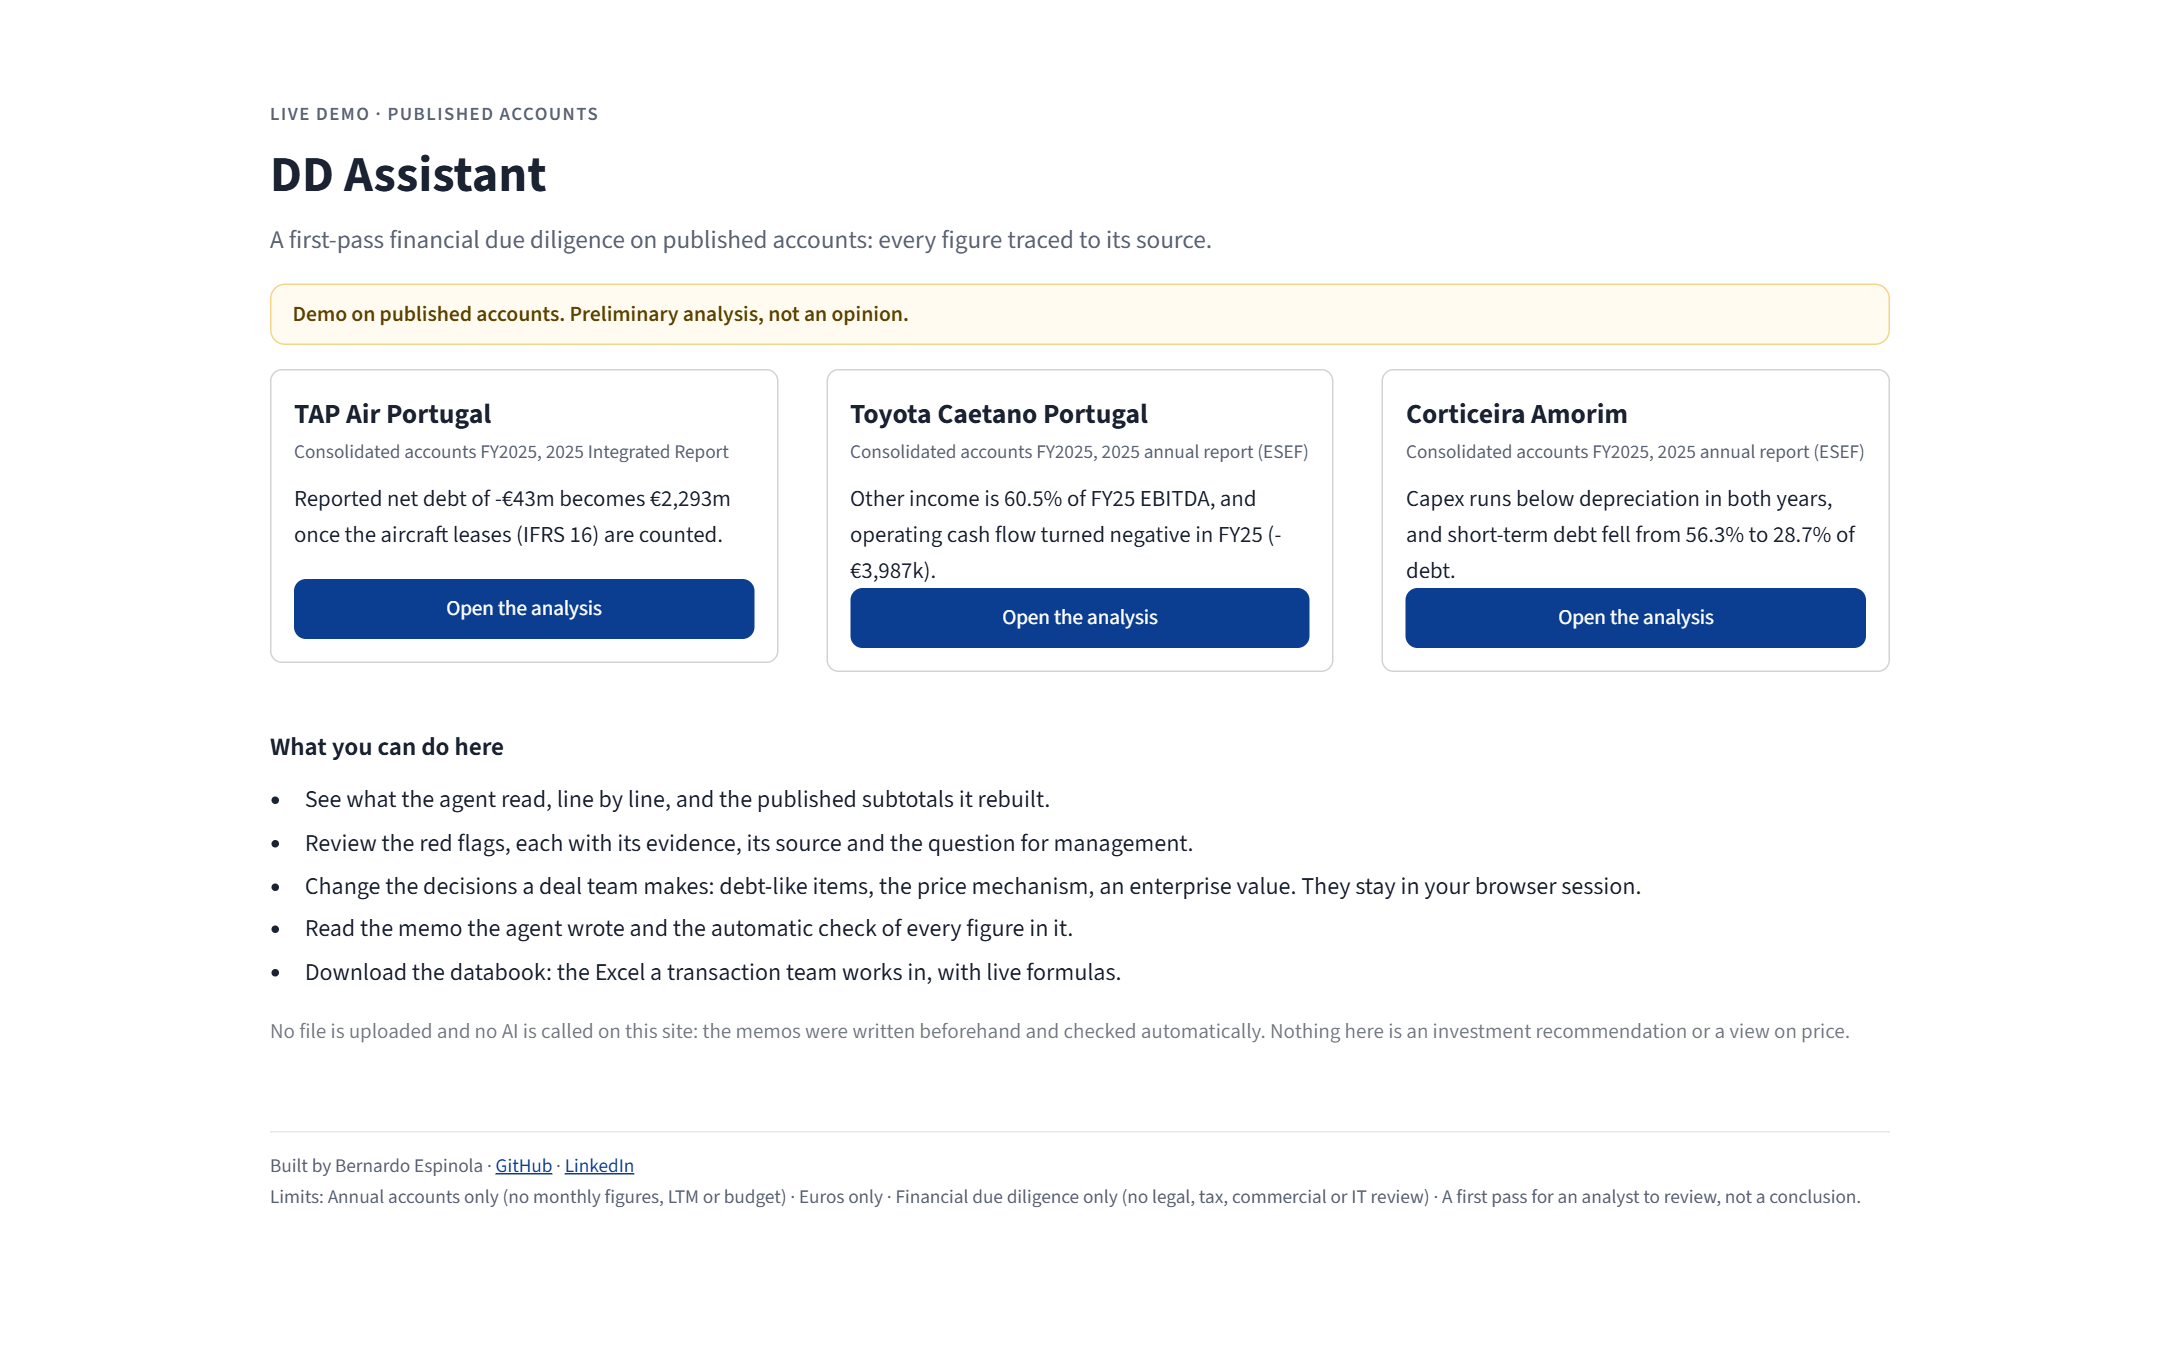
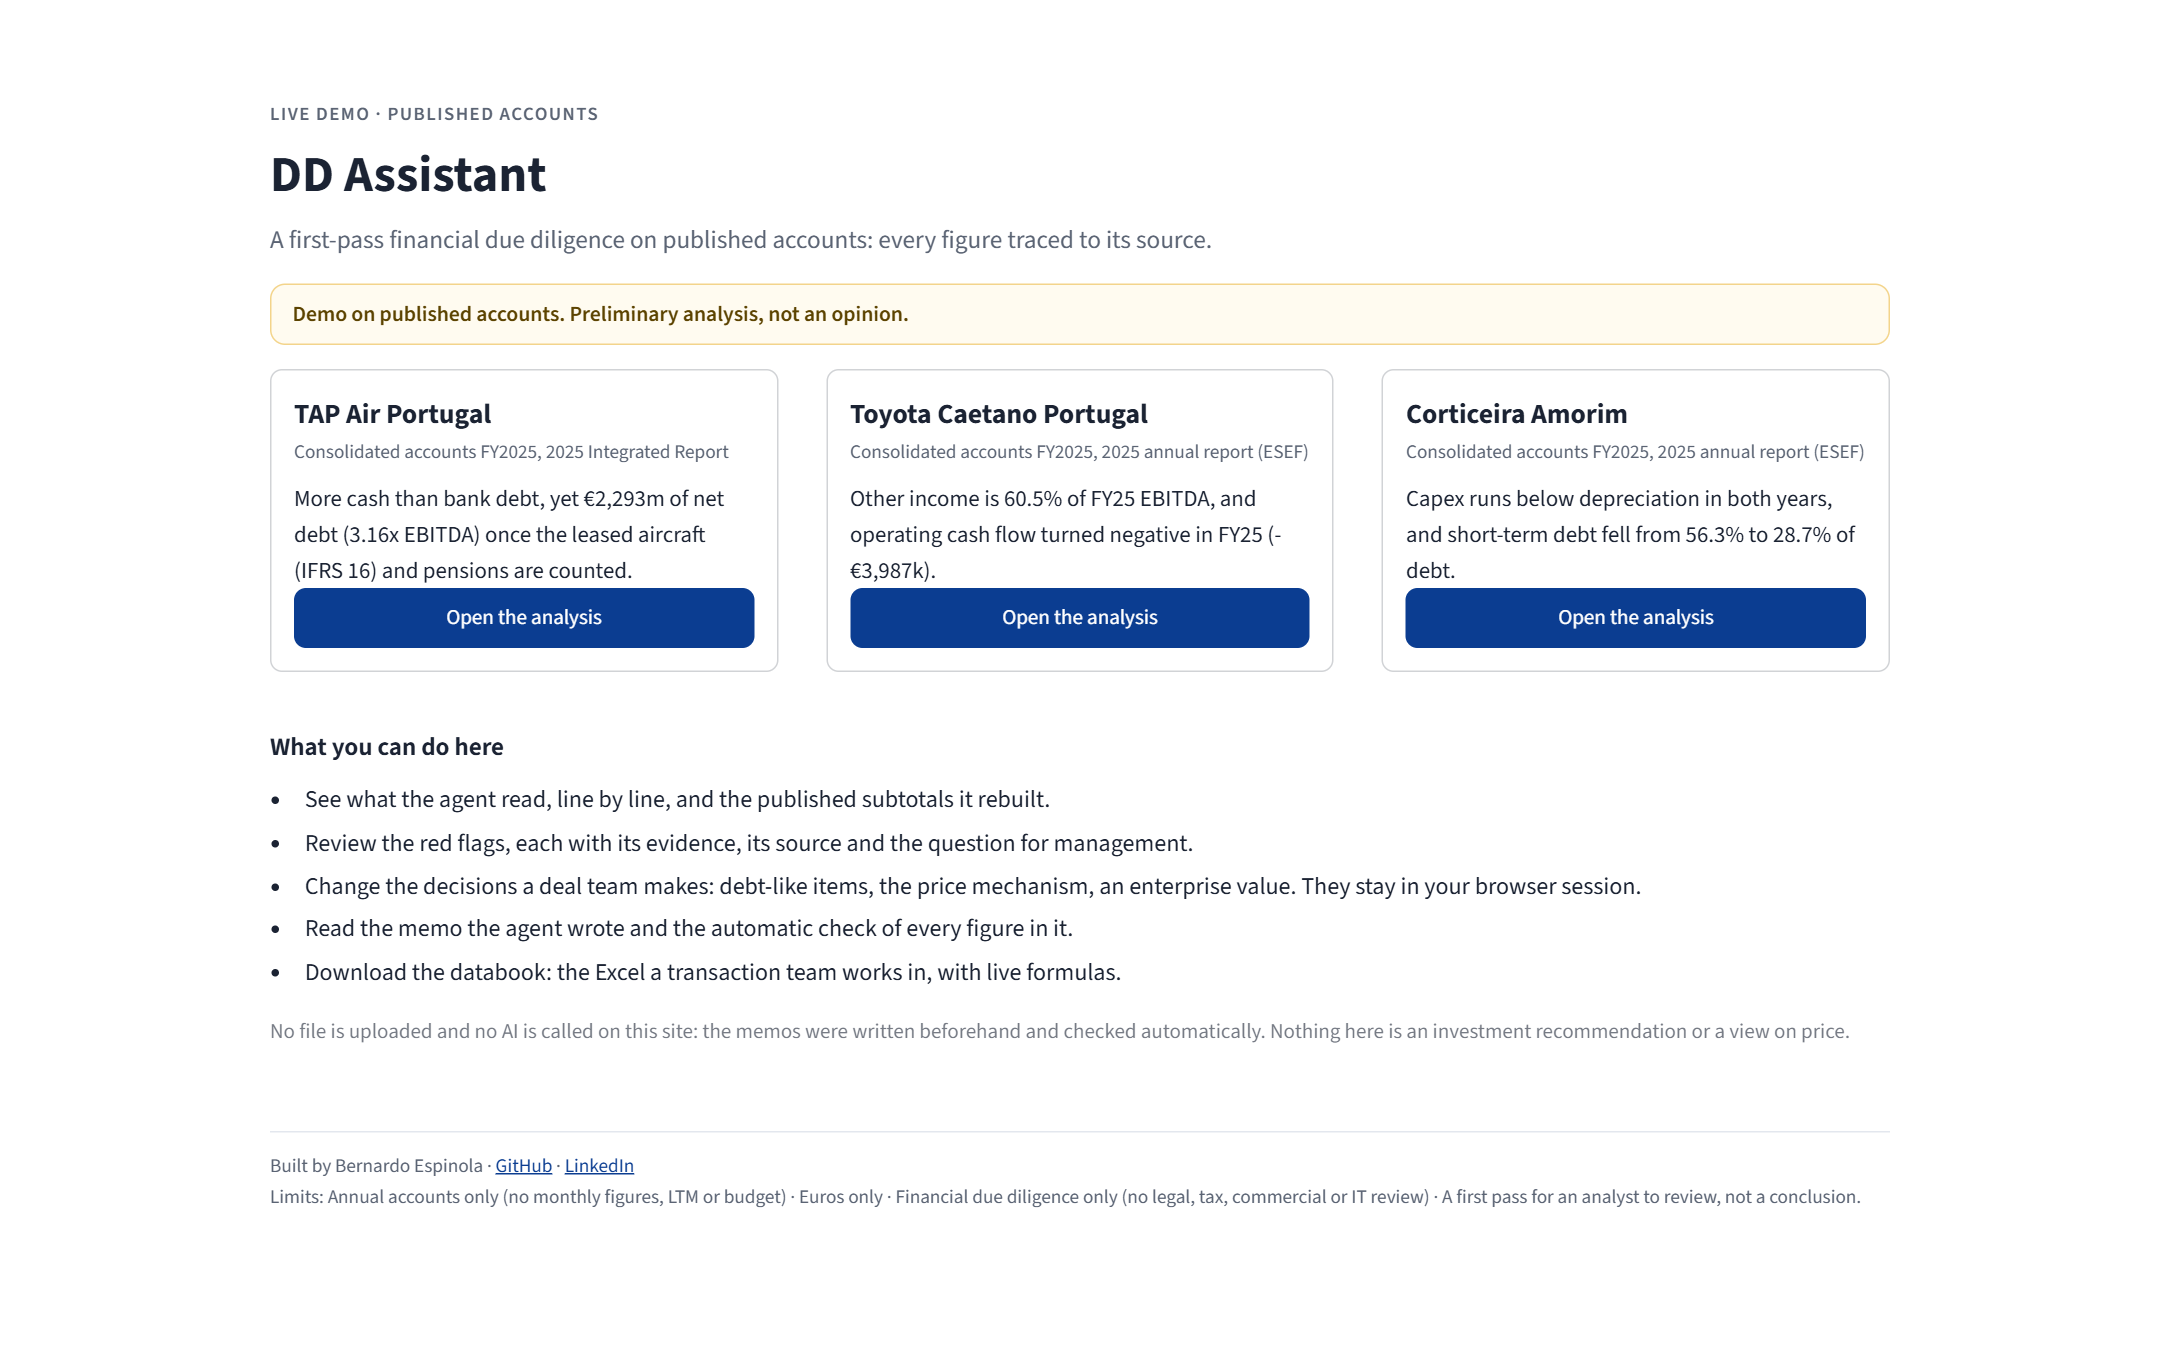
Net debt card: the ratio sits by adjusted net debt; borrowings less cash no longer called 'reported'
'Reported net debt' suggested a figure the company publishes; it is borrowings less cash, so it is now 'Net
financial debt (borrowings less cash)' in the deal view, the databook, the command line, the memos and the README.
The card reads '3.16x EBITDA · of which borrowings less cash -€43m', and the EBITDA card 'Before adjustments'.
TAP's headline: more cash than bank debt, yet €2,293m of net debt once leased aircraft and pensions count.
Memos re-checked (89, 78, 85 figures, none without a source); databooks regenerated and recalculated by Excel.

Changed region(s): [[0.1241, 0.3422, 0.3722, 0.4978]]

diff --git a/app.py b/app.py
@@ -437,13 +437,13 @@ with tab_ov:
     kpis = [
         ("Revenue", money.fmt(g("vendas")), f"{fmt_metric('g_vendas', g('g_vendas'))} growth vs {fy(data.pl_years[-2])}"),
         ("Diligence-adjusted EBITDA", money.fmt(view.ebitda_dd[L]),
-         f"Reported {money.fmt(view.ebitda[L])}" + (f" · mgmt {money.fmt(view.ebitda_mgmt[L])}" if view.ebitda_mgmt
-                                                    else "")),
+         f"Before adjustments {money.fmt(view.ebitda[L])}" + (f" · mgmt {money.fmt(view.ebitda_mgmt[L])}"
+                                                              if view.ebitda_mgmt else "")),
         ("Cash conversion", fmt_metric("conv", g("conv")), "Operating cash / reported EBITDA"),
         ("Adjusted net debt", money.fmt(view.net_debt_adjusted[B]),
-         f"Reported {money.fmt(view.net_debt_reported[B])}"
-         + (f" · {view.net_debt_adjusted[B] / view.ebitda_dd[L]:.2f}x EBITDA"
-            if view.ebitda_dd[L] > 0 and view.net_debt_adjusted[B] is not None else "")),
+         (f"{view.net_debt_adjusted[B] / view.ebitda_dd[L]:.2f}x EBITDA · "
+          if view.ebitda_dd[L] > 0 and view.net_debt_adjusted[B] is not None else "")
+         + f"of which borrowings less cash {money.fmt(view.net_debt_reported[B])}"),
         ("Net working capital", money.fmt(view.nwc_values[B]),
          f"{fmt_unit('pct', nwc_pct)} of revenue" + (f" · average {money.fmt(view.nwc_average)}"
                                                     if len(view.bs_years) > 1 else "")),

diff --git a/dd_assistant/demo.py b/dd_assistant/demo.py
@@ -72,7 +72,7 @@ class Case:
 
 CASES = (
     Case("tap", "TAP Air Portugal", "TAP_2025_published.xlsx", "PT", "transport",
-         "Reported net debt of -€43m becomes €2,293m once the aircraft leases (IFRS 16) are counted.",
+         "More cash than bank debt, yet €2,293m of net debt (3.16x EBITDA) once the leased aircraft (IFRS 16) and pensions are counted.",
          "Consolidated accounts FY2025, 2025 Integrated Report",
          context="The privatisation is under way: Air France-KLM and Lufthansa submitted binding offers, and the "
                  "Government extended the deadline to complete it to the end of 2026.",
@@ -80,7 +80,7 @@ CASES = (
                          "https://www.jn.pt/economia/artigo/governo-prorroga-ate-final-do-ano-prazo-para-concluir-"
                          "privatizacao-da-tap/18123884")),
     Case("toyota-caetano", "Toyota Caetano Portugal", "Toyota_Caetano_2025_published.xlsx", "PT", "automotive",
-         "Other income is 60.5% of FY25 EBITDA, and operating cash flow turned negative in FY25 (-€3,987k).",
+         "Other income is 60.5% of FY25 EBITDA, and operating cash flow turned negative in FY25 (−€3,987k).",
          "Consolidated accounts FY2025, 2025 annual report (ESEF)"),
     Case("corticeira-amorim", "Corticeira Amorim", "Corticeira_Amorim_2025_published.xlsx", "PT", "materials",
          "Capex runs below depreciation in both years, and short-term debt fell from 56.3% to 28.7% of debt.",

diff --git a/dd_assistant/deal.py b/dd_assistant/deal.py
@@ -129,7 +129,7 @@ def deal_view(d: CompanyData, m: Metrics, decisions: dict[str, str] | None = Non
           Line("Current borrowings", {y: v("fin_cp", y) for y in B}, source=src("fin_cp", "")),
           Line("Gross financial debt", debt, "subtotal"),
           Line("Cash and cash equivalents", _neg({y: v("caixa", y) for y in B}), source=src("caixa", "")),
-          Line("Reported net debt", reported, "subtotal")]
+          Line("Net financial debt (borrowings less cash)", reported, "subtotal")]
     incomplete = [f"{fy(y)} net debt: {', '.join(what)} not found — net debt is not computed (no zero assumed)"
                   for y in B if reported[y] is None and (what := [label for key, label in (
                       ("caixa", "cash and cash equivalents"), ("fin_lp", "borrowings")) if v(key, y) is None])]

diff --git a/dd_assistant/__main__.py b/dd_assistant/__main__.py
@@ -183,7 +183,7 @@ def _print(a: Analysis) -> None:
     print(f"\nDeal view ({fy(L)}): reported EBITDA {m.fmt(v.ebitda[L])}"
           + (f" · management-adjusted {m.fmt(v.ebitda_mgmt[L])}" if v.ebitda_mgmt else "")
           + f" · diligence-adjusted {m.fmt(v.ebitda_dd[L])}")
-    print(f"Net debt ({fy(B)}): reported {m.fmt(v.net_debt_reported[B])} · adjusted {m.fmt(v.net_debt_adjusted[B])}"
+    print(f"Net debt ({fy(B)}): borrowings less cash {m.fmt(v.net_debt_reported[B])} · adjusted {m.fmt(v.net_debt_adjusted[B])}"
           f" · NWC {m.fmt(v.nwc_values[B])}" + (f" (average of the year-ends {m.fmt(v.nwc_average)})"
                                                 if len(v.bs_years) > 1 else ""))
 

diff --git a/tests/test_demo.py b/tests/test_demo.py
@@ -81,6 +81,9 @@ class DemoAppTest(unittest.TestCase):
                 text = page_text(at)
                 self.assertIn(demo.WARNING, text)
                 self.assertNotIn("Claude API: not configured", text)
+                # net debt card: the ratio sits next to the adjusted figure; borrowings less cash is not "reported"
+                self.assertIn("x EBITDA · of which borrowings less cash", text)
+                self.assertNotIn("Reported net debt", text)
                 self.assertTrue(any("passed" in s.value and "without a source: 0" in s.value for s in at.success),
                                 "the Memo tab shows the checker result")
 

diff --git a/dd_assistant/databook.py b/dd_assistant/databook.py
@@ -344,7 +344,7 @@ def _net_debt(ws, a, fin_rows: dict[str, int]) -> dict:
         _put(ws, r, last + 1, d.sources.get(key, "not found"))
     r += 1
     reported_row = r
-    _put(ws, r, 1, "Reported net debt", _BOLD)
+    _put(ws, r, 1, "Net financial debt (borrowings less cash)", _BOLD)
     for y, c in cols.items():
         col = get_column_letter(c)
         lp, cp, cash = (f"{col}{x}" for x in base)

diff --git a/docs/examples/tap/memo.md b/docs/examples/tap/memo.md
@@ -10,7 +10,7 @@ Preliminary buy-side review of TAP, a Portuguese airline group, in the transport
 
 ### Executive summary
 
-1. **Net debt depends on the definition (deal view, R22).** Reported net debt is -€43m in FY25, a net cash position. With aircraft leases and pensions, adjusted net debt is €2,293m, 3.16x EBITDA.
+1. **Net debt depends on the definition (deal view, R22).** Borrowings less cash are -€43m in FY25: cash exceeds bank borrowings. With aircraft leases and pensions, adjusted net debt is €2,293m, 3.16x EBITDA.
 2. **EBITDA fell and almost no profit reached shareholders (R25).** Reported EBITDA fell from €807m in FY24 to €726m in FY25. The effective tax rate was 96.9% in FY25, against 22.5% statutory.
 3. **Working capital is negative and partly unexplained (R07, R28).** Net working capital is -€598m in FY25. Receivables grew 21.7% against revenue growth of 1.2%, and "other" current liabilities total €1,727m.
 4. **Cash generation weakened with higher capex.** Cash conversion fell from 81.8% in FY24 to 76.6% in FY25. Free cash flow fell from €298m in FY24 to €192m in FY25.
@@ -27,17 +27,17 @@ Preliminary buy-side review of TAP, a Portuguese airline group, in the transport
 | EBITDA margin | 19.1% | 17.0% |
 | EBITDA before IFRS 16 (less lease payments) | 238 | 262 |
 | Cash conversion (operating cash / EBITDA) | 81.8% | 76.6% |
-| Reported net debt | -119 | -43 |
+| Net financial debt (borrowings less cash) | -119 | -43 |
 | Adjusted net debt | 2,536 | 2,293 |
 | Net working capital | -366 | -598 |
 
 ## Page 2
 
-### Theme 1 — Leases turn a net cash position into €2,293m of adjusted net debt
+### Theme 1 — Cash exceeds bank borrowings, but leases bring adjusted net debt to €2,293m
 
 | Evidence (finding and source) | What it may indicate | Question for management |
 | --- | --- | --- |
-| Deal view: reported net debt of -€43m in FY25; gross borrowings of €723m against cash of €765m (Financial position!C43, C49, C21). | On the narrow definition, the group holds more cash than borrowings. | How much of the FY25 cash is restricted, pledged or held abroad? |
+| Deal view: net financial debt of -€43m in FY25, borrowings of €723m less cash of €765m (Financial position!C43, C49, C21). | On the narrow definition, the group holds more cash than borrowings. | How much of the FY25 cash is restricted, pledged or held abroad? |
 | Deal view: lease liabilities of €743m and €1,034m non-current, €117m and €265m current, in FY25 (Financial position!C44:C51). | The fleet is largely financed by leases, which a buyer treats as debt. | Which leases have purchase options, and what are the return conditions and maintenance obligations? |
 | Deal view: adjusted net debt of €2,293m in FY25, 3.16x diligence-adjusted EBITDA; pensions of €173m included (Financial position!C40). | Leverage is material once leases and pensions count as debt. | How are the post-employment obligations funded, and what are the actuarial assumptions? |
 | R22: interest cover of 3.23x in FY24 and 3.71x in FY25; FY25 interest of €196m (Income statement!C26:D26). | Little room for an EBITDA fall or higher rates. | What share of borrowings and leases carries a floating rate, and how is it hedged? |

diff --git a/README.md b/README.md
@@ -10,7 +10,7 @@ It reads a company's statements (Excel, PDF, Word or an ESEF filing), checks its
 
 ![The demo on TAP Air Portugal's FY2025 accounts](docs/images/demo-overview.png)
 
-*The online demo on TAP Air Portugal's published FY2025 accounts: both reading checks pass, adjusted net debt is €2,293m against a reported net cash position, and each card is coloured by the red flags behind it.*
+*The online demo on TAP Air Portugal's published FY2025 accounts: both reading checks pass, adjusted net debt is €2,293m (3.16x EBITDA) although cash exceeds bank borrowings by €43m, and each card is coloured by the red flags behind it.*
 
 ![The databook's Net Debt sheet in Excel](docs/images/databook-net-debt.png)
 
@@ -22,7 +22,7 @@ Three Portuguese companies, on their latest published consolidated accounts (FY2
 
 | Company | Finding | Source |
 |---|---|---|
-| **TAP Air Portugal** | Reported net debt is -€43m in FY25, a net cash position. With aircraft leases (IFRS 16) and pensions, adjusted net debt is **€2,293m**, 3.16x EBITDA. | Statement of financial position, 2025 Integrated Report p.152 (four lease liability lines) |
+| **TAP Air Portugal** | On the balance sheet TAP holds more cash than bank debt: borrowings less cash are -€43m in FY25. Count the leased aircraft (IFRS 16) and pensions, and net debt is **€2,293m**, 3.16x EBITDA. Leases also make EBITDA look bigger: €726m, but €262m after lease payments. | Statement of financial position, 2025 Integrated Report p.152 (four lease liability lines) |
 | | The effective tax rate was **96.9%** in FY25, against 22.5% statutory (R25): income tax of €66m on profit before tax of €68m. | Income statement, p.153 |
 | **Toyota Caetano Portugal** | Other income is **60.5% of FY25 EBITDA**: €40,036k of €66,187k (R04, High). | Income statement, 2025 annual report (ESEF), "Outros rendimentos operacionais" |
 | | Operating cash flow turned negative: **-€3,987k** in FY25 against €62,857k in FY24 (R10), as inventories grew 25.8% against COGS up 4.5% (R09). | Cash flow statement and balance sheet, 2025 annual report |

diff --git a/docs/examples/toyota-caetano/memo.md b/docs/examples/toyota-caetano/memo.md
@@ -26,7 +26,7 @@ Preliminary buy-side review of Toyota Caetano Portugal, a Portuguese automotive 
 | Diligence-adjusted EBITDA | 74,634 | 66,187 |
 | EBITDA margin | 11.3% | 9.9% |
 | Cash conversion (operating cash flow / EBITDA) | 84.2% | -6.0% |
-| Reported net debt | 51,078 | 76,532 |
+| Net financial debt (borrowings less cash) | 51,078 | 76,532 |
 | Adjusted net debt | 57,542 | 78,039 |
 | Net working capital | 61,710 | 101,201 |
 
@@ -64,7 +64,7 @@ Preliminary buy-side review of Toyota Caetano Portugal, a Portuguese automotive 
 | Evidence (finding and source) | What it may indicate | Question for management |
 | --- | --- | --- |
 | R24: capex of 0.42x D&A in FY24 and 0.32x in FY25; FY25 capex of €5,978k against D&A of €18,617k (DFC!C23:D24). | Maintenance capex may have been deferred. | Is capex below depreciation a temporary pause, or has maintenance been deferred? What capex is needed in the next three years? |
-| Deal view: reported net debt of €51,078k in FY24 and €76,532k in FY25; adjusted net debt of €78,039k, 1.18x EBITDA. | Leverage rose with the stock build. | Is vehicle stock financed through floorplan or OEM credit lines, and are these lines included in reported debt? |
+| Deal view: net financial debt (borrowings less cash) of €51,078k in FY24 and €76,532k in FY25; adjusted net debt of €78,039k, 1.18x EBITDA. | Leverage rose with the stock build. | Is vehicle stock financed through floorplan or OEM credit lines, and are these lines included in reported debt? |
 | No rule: 46.4% of gross debt of €93,102k is due within 12 months in FY25 (Balanço!C38, C45). | R11 does not fire: its threshold is 60% for automotive distributors. | Are the short-term facilities committed, and what are their renewal terms? |
 | Sector lens: the distribution agreement with the manufacturer is not in the data room. | The business depends on one brand. | What are the term, renewal and change-of-control provisions of the distribution agreement with the manufacturer? |
 

diff --git a/docs/examples/tap/case_note.md b/docs/examples/tap/case_note.md
@@ -9,7 +9,7 @@ TAP is the Portuguese flag carrier, owned by the State after the 2020 rescue. In
 ## Three talking points
 
 **1. Net debt is a definition, not a number.**
-- *The number:* reported net debt is -€43m in FY25, a net cash position. Adjusted net debt is €2,293m, 3.16x EBITDA, once aircraft leases (IFRS 16) and pensions are counted.
+- *The number:* borrowings less cash are -€43m in FY25: cash exceeds bank borrowings. Adjusted net debt is €2,293m, 3.16x EBITDA, once aircraft leases (IFRS 16) and pensions are counted. The 3.16x belongs to the €2,293m; on -€43m there is no meaningful ratio.
 - *Why it matters in a deal:* enterprise value to equity deducts net debt. Which leases, pensions and provisions count is negotiated in the SPA, and a few hundred million move between buyer and seller.
 - *Question for management:* "Which leases have purchase options, and what are the return conditions and maintenance obligations?"
 

diff --git a/docs/examples/corticeira-amorim/memo.md b/docs/examples/corticeira-amorim/memo.md
@@ -26,7 +26,7 @@ Preliminary buy-side review of Corticeira Amorim, a Portuguese listed group in m
 | Diligence-adjusted EBITDA | 157,566 | 140,983 |
 | EBITDA margin | 16.8% | 16.4% |
 | Cash conversion (operating cash flow / EBITDA) | 76.7% | 155.4% |
-| Reported net debt | 195,687 | 75,859 |
+| Net financial debt (borrowings less cash) | 195,687 | 75,859 |
 | Adjusted net debt | 198,897 | 79,657 |
 | Net working capital | 538,907 | 439,589 |
 
